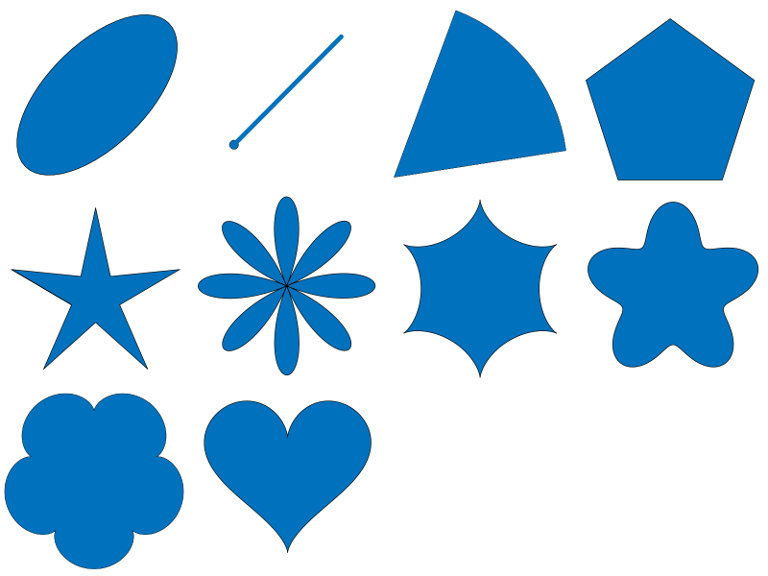
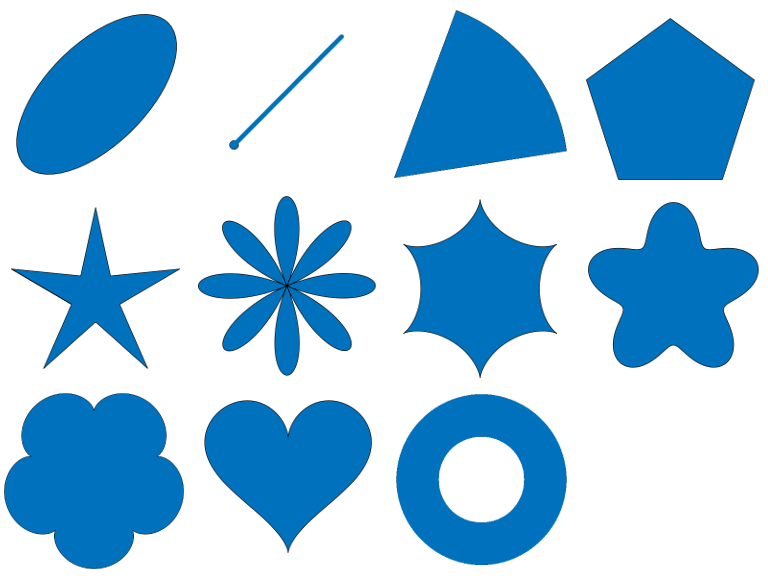
misc updates to support new capabilities

diff --git a/provider.py b/provider.py
@@ -3,6 +3,10 @@ from qgis.core import QgsProcessingProvider
 from qgis.PyQt.QtGui import QIcon
 from .geodesicDensify import GeodesicDensifyAlgorithm
 from .xyToLine import XYToLineAlgorithm
+from .createDonut import CreateDonutAlgorithm
+from .createLob import CreateLobAlgorithm
+from .createPolygon import CreatePolygonAlgorithm
+from .idlbreakline import IdlBreakLineAlgorithm
 
 class ShapeToolsProvider(QgsProcessingProvider):
 
@@ -11,7 +15,11 @@ class ShapeToolsProvider(QgsProcessingProvider):
 
     def loadAlgorithms(self):
         self.addAlgorithm(GeodesicDensifyAlgorithm())
+        self.addAlgorithm(IdlBreakLineAlgorithm())
         self.addAlgorithm(XYToLineAlgorithm())
+        self.addAlgorithm(CreateDonutAlgorithm())
+        self.addAlgorithm(CreateLobAlgorithm())
+        self.addAlgorithm(CreatePolygonAlgorithm())
 
     def icon(self):
         return QIcon(os.path.dirname(__file__) + '/images/shapes.png')

diff --git a/readme.md b/readme.md
@@ -73,6 +73,10 @@ Create an N-leafed epicycloid. The distance form the center to the outer edge is
 
 Create a mathematical heart which fits within the circle defined by its radius.
 
+### Donut
+
+Create a donut shape. The inner and outer radius is specified either as default values or from the attribute table. If the inner radius is 0 then a solid circle is drawn. **Arc point spacing (degrees)** defines how often a point is drawn to create the circle. A lower value will produce a smoother circle, but will take more time to draw.
+
 ## <a name="xy-to-line"></a> ![XY to Line](images/xyline.png) XY to Line
 This creates geodesic, great circle, or simple lines based on starting and ending coordinates in each table record. One of the coordinates can be from a point layer geometry or both can come from the table data itself where each record has a starting x-coordinate, starting y-coordinate, and an ending x-coordinate and ending y-coordinate.
 
